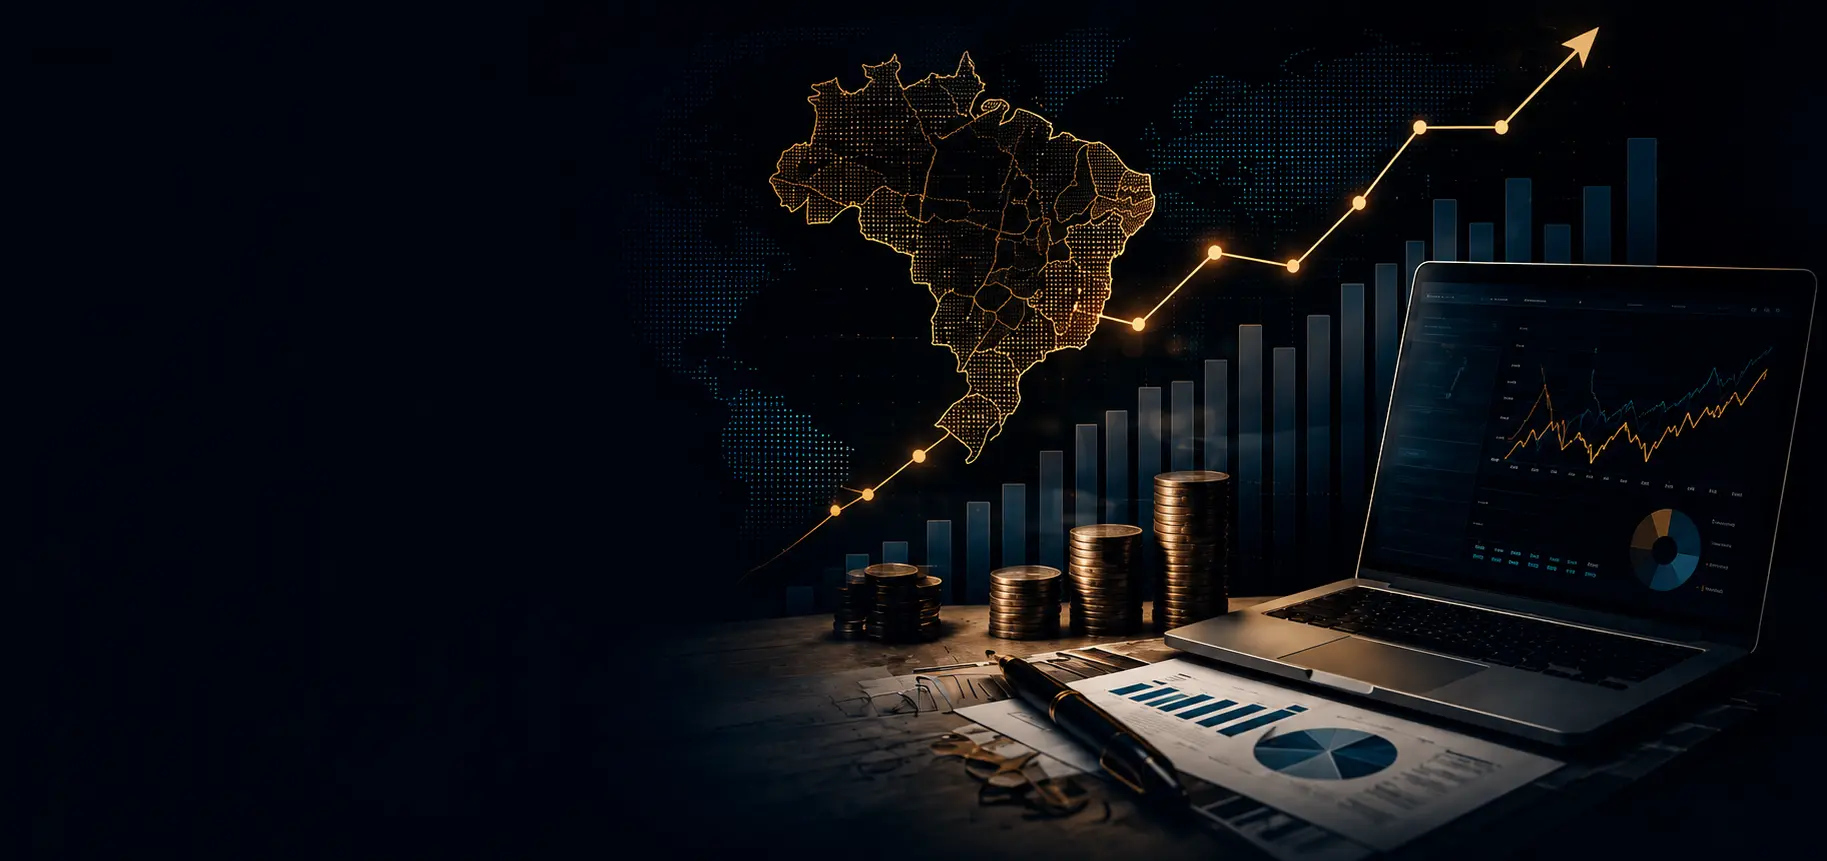
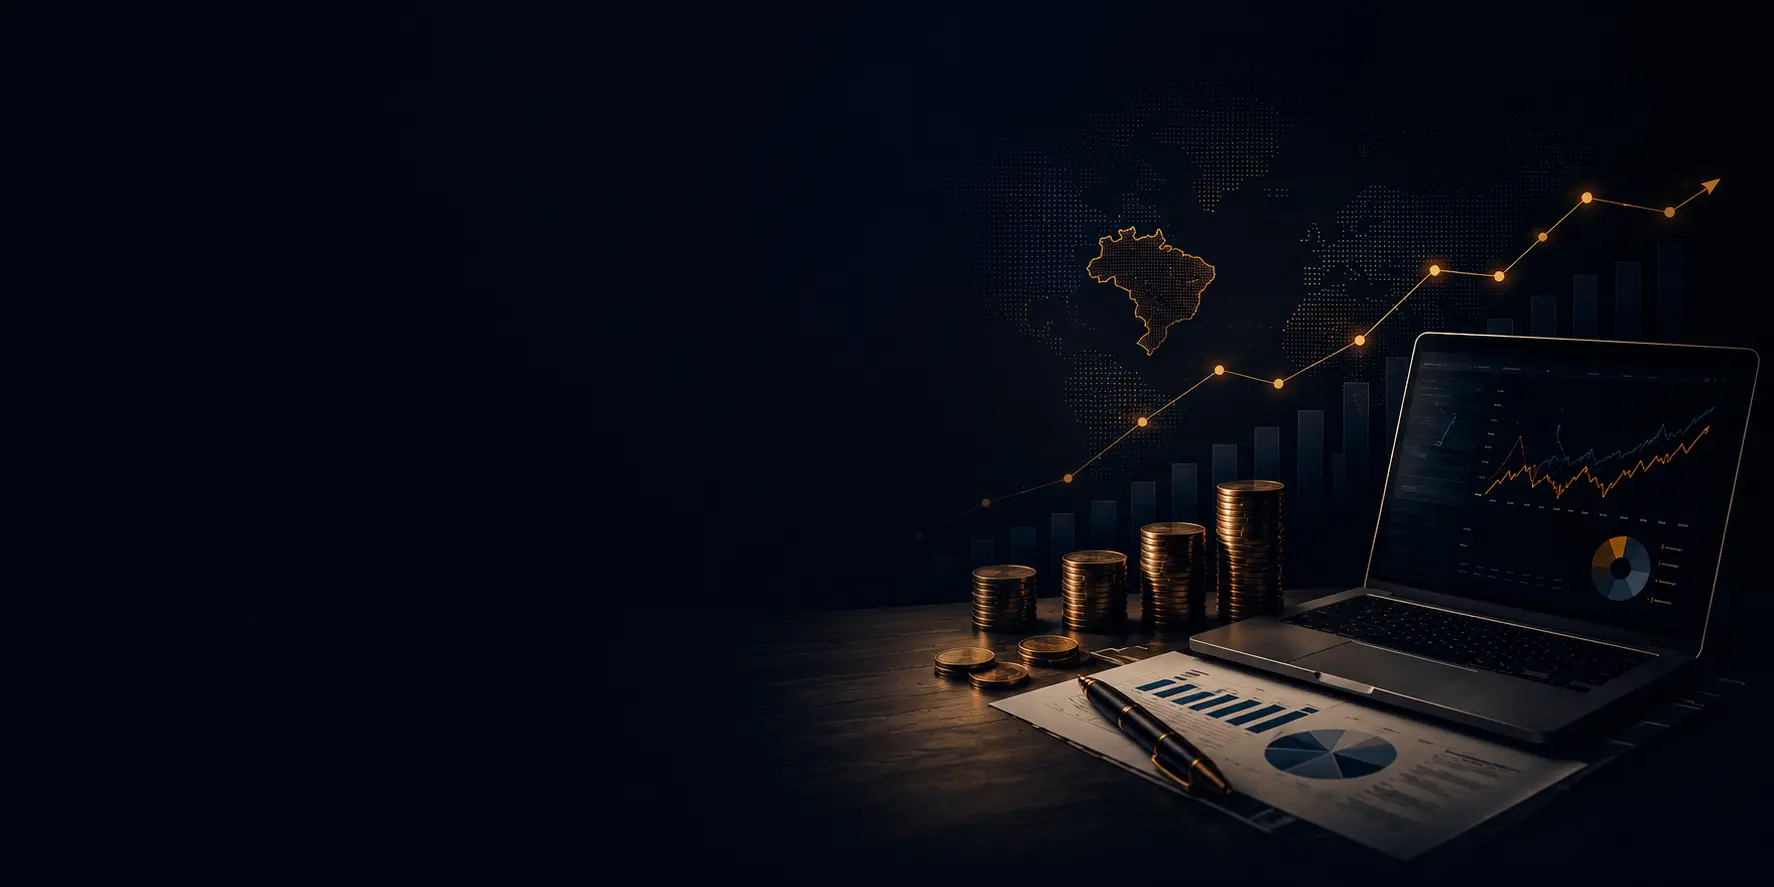
chore: update project and apply general improvements

diff --git a/atuacao/page-banner-atuacao.css b/atuacao/page-banner-atuacao.css
@@ -25,7 +25,7 @@
   position: relative;
   display: flex;
   align-items: center;
-  min-height: 460px; /* igual ao banner-publicacoes */
+  min-height: 460px;
   width: 100%;
   overflow: hidden;
   background-color: var(--navy-950);
@@ -33,7 +33,6 @@
   background-size: cover;
   background-position: center;
   background-repeat: no-repeat;
-  border: 2px solid red;
 }
 
 /* Overlay geral — leve, mantém a imagem de fundo visível e viva */
@@ -43,10 +42,10 @@
   inset: 0;
   background: linear-gradient(
     90deg,
-    rgba(10, 15, 28, 0.94) 0%,
-    rgba(10, 15, 28, 0.72) 35%,
-    rgba(10, 15, 28, 0.42) 65%,
-    rgba(10, 15, 28, 0.18) 100%
+    rgba(10, 15, 28, 0.80) 0%,
+    rgba(10, 15, 28, 0.55) 35%,
+    rgba(10, 15, 28, 0.28) 65%,
+    rgba(10, 15, 28, 0.05) 100%
   );
   z-index: 1;
 }
@@ -96,8 +95,7 @@
   color: var(--gold);
 }
 
-.atuacao-banner__badge svg,
-.atuacao-banner__badge-icon {
+.atuacao-banner__badge svg {
   width: 16px;
   height: 16px;
   flex-shrink: 0;
@@ -169,155 +167,10 @@
   transform: translateY(-1px);
 }
 
-/* ---- Foto do Bruno (sobreposta ao fundo) ---- */
-
-.atuacao-banner__foto {
-  position: absolute;
-  right: 14%;
-  bottom: 0;
-  top: 0;
-  z-index: 1;
-  display: flex;
-  align-items: flex-end;
-  justify-content: flex-end;
-  pointer-events: none;
-  overflow: hidden;
-}
-
-/* Vinheta suave por trás da figura — ajuda na transição sem escurecer demais */
-.atuacao-banner__foto::before {
-  content: "";
-  position: absolute;
-  right: -10%;
-  bottom: -10%;
-  width: 110%;
-  height: 110%;
-  background: radial-gradient(
-    ellipse 60% 65% at 55% 60%,
-    rgba(10, 15, 28, 0) 50%,
-    rgba(10, 15, 28, .3) 80%,
-    rgba(10, 15, 28, .5) 100%
-  );
-  z-index: 0;
-  pointer-events: none;
-}
-
-.atuacao-banner__foto-glow {
-  position: absolute;
-  right: 4%;
-  bottom: 8%;
-  width: 74%;
-  height: 78%;
-  background: radial-gradient(
-    closest-side,
-    rgba(245, 166, 35, .32) 0%,
-    rgba(245, 166, 35, .12) 45%,
-    rgba(245, 166, 35, 0) 75%
-  );
-  filter: blur(38px);
-  z-index: 0;
-}
-
-/* Backer: mesma foto, transformada em silhueta escura sólida
-   (brightness 0), atrás de tudo. Ela carrega exatamente o mesmo
-   contorno/alpha da foto original — então em qualquer pixel de borda
-   que seja semitransparente (ex.: contorno do cabelo/testa no recorte),
-   em vez do gráfico do fundo aparecer por trás, aparece um tom escuro
-   que se mistura com o navy. Resolve vazamento de qualquer elemento do
-   fundo através de bordas mal recortadas, sem depender de posição exata. */
-.atuacao-banner__foto-backer {
-  position: absolute;
-  z-index: 0;
-  height: 82%;
-  max-height: 440px;
-  width: auto;
-  right: 0;
-  bottom: 0;
-  object-fit: contain;
-  object-position: bottom center;
-  transform: translateY(2%);
-  filter: brightness(0) blur(2px);
-  opacity: 0.85;
-  pointer-events: none;
-}
-
-.atuacao-banner__foto-img {
-  position: relative;
-  z-index: 1;
-  height: 82%;
-  max-height: 440px;
-  width: auto;
-  object-fit: contain;
-  object-position: bottom center;
-  transform: translateY(2%);
-
-  filter: url(#feather-cutout)
-          drop-shadow(0 30px 50px rgba(0, 0, 0, .6));
-
-  /* Máscara em duas camadas, combinadas por interseção:
-     1) linear vertical — mantém cabeça/rosto/tronco/pernas 100% opacos até
-        88% da altura; fade curto só nos últimos 12% (pé da imagem), pra
-        não "comer" um pedaço grande da foto nem cortar a cabeça.
-     2) radial — fade nas LATERAIS (ombros/braços), com transição bem
-        alongada (42% → 96%) pra borda sumir aos poucos, sem parecer
-        recorte colado. */
-  -webkit-mask-image:
-    linear-gradient(to bottom, #000 0%, #000 88%, transparent 100%),
-    radial-gradient(ellipse 88% 96% at 60% 55%, #000 42%, transparent 96%);
-  -webkit-mask-composite: source-in, source-in;
-  mask-image:
-    linear-gradient(to bottom, #000 0%, #000 88%, transparent 100%),
-    radial-gradient(ellipse 88% 96% at 60% 55%, #000 42%, transparent 96%);
-  mask-composite: intersect;
-}
-
-/* Halo borrado: cópia da mesma foto, um pouco maior e desfocada, atrás
-   da imagem nítida. Cria uma transição de FOCO (não só de opacidade) na
-   borda — é o detalhe que mais evita a sensação de "recorte colado". */
-.atuacao-banner__foto-halo {
-  position: absolute;
-  z-index: 0;
-  height: 84%;
-  max-height: 448px;
-  width: auto;
-  right: 0;
-  bottom: 0;
-  object-fit: contain;
-  object-position: bottom center;
-  transform: translateY(2%) scale(1.04);
-  filter: blur(14px) saturate(0.9) brightness(0.85);
-  opacity: 0.55;
-  -webkit-mask-image:
-    linear-gradient(to bottom, #000 0%, #000 82%, transparent 100%),
-    radial-gradient(ellipse 90% 98% at 60% 55%, #000 30%, transparent 98%);
-  -webkit-mask-composite: source-in, source-in;
-  mask-image:
-    linear-gradient(to bottom, #000 0%, #000 82%, transparent 100%),
-    radial-gradient(ellipse 90% 98% at 60% 55%, #000 30%, transparent 98%);
-  mask-composite: intersect;
-}
-
-/* Fade full-bleed na base: dissolve só a ponta do pé da foto no fundo */
-.atuacao-banner__foto-fade {
-  position: absolute;
-  left: -10%;
-  right: -10%;
-  bottom: 0;
-  height: 10%;
-  z-index: 2;
-  pointer-events: none;
-  background: linear-gradient(
-    180deg,
-    rgba(10, 15, 28, 0) 0%,
-    rgba(10, 15, 28, .2) 65%,
-    rgba(10, 15, 28, .45) 100%
-  );
-}
-
 /* Responsivo */
 @media (max-width: 768px) {
   .atuacao-banner {
-    min-height: 380px; /* igual ao banner-publicacoes */
+    min-height: 380px;
   }
 
   .atuacao-banner__container {
@@ -340,9 +193,5 @@
   .atuacao-banner__cta {
     width: 100%;
     justify-content: center;
-  }
-
-  .atuacao-banner__foto {
-    display: none;
   }
 }

diff --git a/atuacao/content-banner-atuacao.php b/atuacao/content-banner-atuacao.php
@@ -24,8 +24,8 @@ if ( ! defined( 'ABSPATH' ) ) {
 			</span>
 
 			<h1 class="atuacao-banner__title">
-				Economia <span class="atuacao-banner__title-highlight">prática</span>.<br>
-				Resultados <span class="atuacao-banner__title-highlight">reais</span>.
+				Economia <span class="atuacao-banner__title-highlight">prática</span><br>
+				Resultados <span class="atuacao-banner__title-highlight">reais</span>
 			</h1>
 
 			<p class="atuacao-banner__lead">
